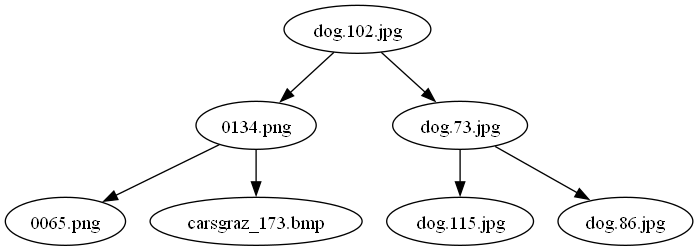
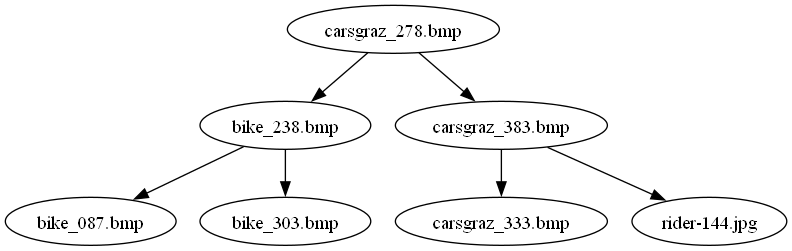
Fix AVL tree deletion bug and improve tree visualization

diff --git a/menu.py b/menu.py
@@ -18,7 +18,12 @@ class Menu(ctk.CTkTabview):
     AddDeleteFrame(self.tab('Inserción/Eliminación'), avl_tree, app)
     SearchFrame(self.tab('Buscar Nodo'), avl_tree)
     FilterFrame(self.tab('Filtrar Nodos'), avl_tree)
-    TraversalFrame(self.tab('Recorridos'), avl_tree)
+    self.traversal_frame = TraversalFrame(self.tab('Recorridos'), avl_tree, app)
+    self.draw_level_order_traversal()
+  
+  def draw_level_order_traversal(self):
+    self.traversal_frame.draw_traversal()
+  
   
 
 
@@ -40,36 +45,52 @@ class AddDeleteFrame(ctk.CTkFrame):
     dataset = load_all_images('data')
     node_name = entry.get()
     if avl_tree.search(avl_tree.root, node_name) is not None:
-      messagebox.showerror('Error', f'El nodo con nombre {node_name} ya existe en el árbol')
-      entry.delete(0, 'end')
+        messagebox.showerror('Error', f'El nodo con nombre {node_name} ya existe en el árbol')
+        entry.delete(0, 'end')
     elif is_file_in_dataset(dataset, node_name):
-      node_data, category = get_file_data_by_name(dataset, node_name)
-      avl_tree.insert(avl_tree.root, node_name, node_name, node_data)
-      entry.delete(0, 'end')
-      app.draw_avl_tree()
+        node_data, category = get_file_data_by_name(dataset, node_name)
+        avl_tree.insert(avl_tree.root, node_name, node_name, node_data)
+        entry.delete(0, 'end')
+        app.avl_tree = avl_tree
+        app.avl_tree.root = avl_tree.root
+        app.draw_avl_tree(app.avl_tree, app.avl_tree.root)  
     else:
-      messagebox.showerror('Error', f'El nodo con nombre {node_name} no existe en el dataset')
-      entry.delete(0, 'end')
+        messagebox.showerror('Error', f'El nodo con nombre {node_name} no existe en el dataset')
+        entry.delete(0, 'end')
+
 
   def delete_node(self, avl_tree, app, entry):
     node_name = entry.get()
     if avl_tree.search(avl_tree.root, node_name) is None:
-      messagebox.showerror('Error', f'El nodo con nombre {node_name} no existe en el árbol')
-      entry.delete(0, 'end')
-      return
+        messagebox.showerror('Error', f'El nodo con nombre {node_name} no existe en el árbol')
+        entry.delete(0, 'end')
+        return
     avl_tree.delete(avl_tree.root, node_name)
-
+    nodes = []
+    avl_tree.level_order_traversal(avl_tree.root, nodes)
+    print(nodes)
+    entry.delete(0, 'end')
+    app.avl_tree = avl_tree
+    app.avl_tree.root = avl_tree.root
+    app.draw_avl_tree(app.avl_tree, app.avl_tree.root)
+    return
+  
+ 
 class FilterFrame(ctk.CTkFrame):
   def __init__(self, parent, avl_tree):
     super().__init__(parent, fg_color='transparent')
     self.pack(expand=True, fill='both')
-
+    self.filtered_nodes_panel = None
     def filter_command(option, min_size, max_size):
       return lambda: self.filter_nodes(avl_tree, option, min_size, max_size)
     
     FilterPanel(self, filter_command)
   
   def filter_nodes(self, avl_tree, option, min_size, max_size):
+    if self.filtered_nodes_panel:
+      if self.filtered_nodes_panel.info_panel:
+        self.filtered_nodes_panel.info_panel.destroy()  
+      self.filtered_nodes_panel.destroy() 
     category = option.get()
     min_size = min_size.get()
     max_size = max_size.get()
@@ -89,7 +110,7 @@ class FilterFrame(ctk.CTkFrame):
     if len(node_list) == 0:
       messagebox.showinfo('Información', 'No se encontraron nodos que cumplan con los criterios de búsqueda')
     else:
-      FilteredNodes(self, node_list, avl_tree)
+      self.filtered_nodes_panel = FilteredNodes(self, node_list, avl_tree)
 
     return 
 
@@ -101,9 +122,12 @@ class SearchFrame(ctk.CTkFrame):
     def search_command(entry):
       return lambda: self.search_node(entry, avl_tree)
     
+    self.search_info_node_panel = None
     SearchPanel(self, 'Ingrese el nombre del nodo a buscar: ', search_command)
 
   def search_node(self, entry, avl_tree):
+    if self.search_info_node_panel:
+      self.search_info_node_panel.destroy()
     node_name = entry.get()
     if avl_tree.search(avl_tree.root, node_name) is not None:
       nivel = avl_tree.get_node_level(avl_tree.root, node_name)
@@ -111,19 +135,26 @@ class SearchFrame(ctk.CTkFrame):
       node_parent = avl_tree.get_node_parent(avl_tree.root, node_name)
       grandparent = avl_tree.get_node_grandparent(avl_tree.root, node_name)
       uncle = avl_tree.get_node_uncle(avl_tree.root, node_name)
-      InfoPanel(self, nivel, balance, node_parent, grandparent, uncle)
-      ClearButtonPanel(self)
+      self.search_info_node_panel= InfoPanel(self, nivel, balance, node_parent, grandparent, uncle)
     else:
       messagebox.showerror('Error', f'El nodo con nombre {node_name} no existe en el árbol')
       entry.delete(0, 'end')
     return
   
 class TraversalFrame(ctk.CTkFrame):
-  def __init__(self, parent, avl_tree):
+  def __init__(self, parent, avl_tree, app):
     super().__init__(parent, fg_color='transparent')
     self.pack(expand=True, fill='both')
+    self.avl_tree = avl_tree
+    self.app = app
+    self.traversal_panel = None
+
+  def draw_traversal(self):
     level_order_traversal_list = []
-    node_list = avl_tree.level_order_traversal(avl_tree.root, level_order_traversal_list)
-    TraversalPanel(self, node_list=level_order_traversal_list)
+    node_list = self.avl_tree.level_order_traversal(self.avl_tree.root, level_order_traversal_list)
+    if self.traversal_panel:
+        self.traversal_panel.destroy()
+    self.traversal_panel = TraversalPanel(self, node_list=level_order_traversal_list)
+
 
 

diff --git a/panels.py b/panels.py
@@ -69,15 +69,6 @@ class InfoPanel(Panel):
     ctk.CTkLabel(self, text="Tío del nodo:", font=ctk.CTkFont(family="Roboto", size=14, weight="bold")).grid(row=4, column=0, padx=4, sticky='w')
     ctk.CTkLabel(self, text=uncle, font=ctk.CTkFont(family="Roboto", size=14)).grid(row=4, column=1, padx=4, sticky='w')
 
-class ClearButtonPanel(Panel):
-  def __init__(self, parent):
-    super().__init__(parent)
-
-    #layout
-    self.rowconfigure(0, weight=1)
-    self.columnconfigure((0,1), weight=1)
-
-    ctk.CTkButton(self, text='Limpiar', font=ctk.CTkFont(family="Roboto", size=14), corner_radius=5).grid(row=0, column=1, padx=4, pady=4, sticky='ew')
 
 class FilteredNodes(Panel):
     def __init__(self, parent, node_list, avl_tree):
@@ -86,23 +77,21 @@ class FilteredNodes(Panel):
       # Layout
       self.rowconfigure((0, 1), weight=1)
       self.columnconfigure((0, 1), weight=1)
-
+      self.info_panel = None
       ctk.CTkLabel(self, text="Escoja uno de los nodos:", font=ctk.CTkFont(family="Roboto", size=14)).grid(row=0, column=0, padx=4, sticky='w')
       node = ctk.CTkOptionMenu(self, values=node_list, font=ctk.CTkFont(family="Roboto", size=14))
       node.grid(row=0, column=1, padx=4, pady=4, sticky='w')
       ctk.CTkButton(self, text='Ver información', font=ctk.CTkFont(family="Roboto", size=14), corner_radius=5, command=lambda: self.view_info(node, avl_tree)).grid(row=1, column=1, padx=4, pady=4, sticky='ew')
 
     def view_info(self, node, avl_tree):
-      for widget in self.winfo_children():
-        if isinstance(widget, InfoPanel):
-          widget.destroy()
-          break
+      if self.info_panel:
+        self.info_panel.destroy()
       parent = avl_tree.get_node_parent(avl_tree.root, node.get())
       grandparent = avl_tree.get_node_grandparent(avl_tree.root, node.get())
       uncle = avl_tree.get_node_uncle(avl_tree.root, node.get())
       nivel = avl_tree.get_node_level(avl_tree.root, node.get())
       balance = avl_tree.get_balance(avl_tree.search(avl_tree.root, node.get()))
-      InfoPanel(self.master, nivel, balance, parent, grandparent, uncle)
+      self.info_panel = InfoPanel(self.master, nivel, balance, parent, grandparent, uncle)
 
 class TraversalPanel(Panel):
   def __init__(self, parent, node_list):
@@ -110,7 +99,15 @@ class TraversalPanel(Panel):
 
     #layout
     self.rowconfigure(0, weight=1)
-    self.columnconfigure((0,1), weight=1)
+    self.columnconfigure((0,1,2,3), weight=1)
 
     ctk.CTkLabel(self, text="Recorrido por Niveles:", font=ctk.CTkFont(family="Roboto", size=14, weight="bold")).grid(row=0, column=0, padx=4, sticky='w')
-    ctk.CTkLabel(self, text=node_list, font=ctk.CTkFont(family="Roboto", size=14)).grid(row=1, column=0, padx=4, sticky='w')
+    node_sublists = [node_list[i:i+3] for i in range(0, len(node_list), 3)]
+    for row_idx, sublist in enumerate(node_sublists, start=1):
+      col_idx = 0
+      for idx, node in enumerate(sublist):
+        ctk.CTkLabel(self, text=node, font=ctk.CTkFont(family="Roboto", size=14)).grid(row=row_idx, column=col_idx, padx=4, sticky='w')
+        if idx < len(sublist) - 1: 
+          col_idx += 1
+          ctk.CTkLabel(self, text="->", font=ctk.CTkFont(family="Roboto", size=14)).grid(row=row_idx, column=col_idx, padx=4, sticky='w')
+          col_idx += 1

diff --git a/avl.py b/avl.py
@@ -42,46 +42,55 @@ class AVLTree:
       return root
 
   def delete(self, root, name):
-      if not root:
-          return root
+    if not root:
+        return root
+    
+    # Realizar la eliminación como en un ABB
+    if name < root.name:
+        root.left = self.delete(root.left, name)
+    elif name > root.name:
+        root.right = self.delete(root.right, name)
+    else:
+        # Caso de eliminación de un nodo con un solo hijo o sin hijos
+        if root.left is None:
+            temp = root.right
+            root = None
+            return temp
+        elif root.right is None:
+            temp = root.left
+            root = None
+            return temp
+          
+        # Caso de eliminación de un nodo con dos hijos
+        temp = self.min_value_node(root.right)
+        root.name = temp.name
+        root.data = temp.data
+        root.aditional_data = temp.aditional_data
+        root.right = self.delete(root.right, temp.name)
+      
+    # Actualizar la altura del nodo actual
+    root.height = 1 + max(self.get_height(root.left), self.get_height(root.right))
+    
+    # Obtener el factor de equilibrio del nodo actual
+    balance = self.get_balance(root)
 
-      if name < root.name:
-          root.left = self.delete(root.left, name)
-      elif name > root.name:
-          root.right = self.delete(root.right, name)
-      else:
-          if root.left is None:
-              temp = root.right
-              root = None
-              return temp
-          elif root.right is None:
-              temp = root.left
-              root = None
-              return temp
+    # Rebalancear el árbol si es necesario
+    # Rotaciones para balancear el árbol
+    if balance > 1 and self.get_balance(root.left) >= 0:
+        return self.right_rotate(root)
+    if balance < -1 and self.get_balance(root.right) <= 0:
+        return self.left_rotate(root)
+    if balance > 1 and self.get_balance(root.left) < 0:
+        root.left = self.left_rotate(root.left)
+        return self.right_rotate(root)
+    if balance < -1 and self.get_balance(root.right) > 0:
+        root.right = self.right_rotate(root.right)
+        return self.left_rotate(root)
 
-          temp = self.min_value_node(root.right)
-          root.name = temp.name
-          root.right = self.delete(root.right, temp.name)
+    return root
 
-      if root is None:
-          return root
 
-      root.height = 1 + max(self.get_height(root.left), self.get_height(root.right))
 
-      balance = self.get_balance(root)
-
-      if balance > 1 and self.get_balance(root.left) >= 0:
-          return self.right_rotate(root)
-      if balance < -1 and self.get_balance(root.right) <= 0:
-          return self.left_rotate(root)
-      if balance > 1 and self.get_balance(root.left) < 0:
-          root.left = self.left_rotate(root.left)
-          return self.right_rotate(root)
-      if balance < -1 and self.get_balance(root.right) > 0:
-          root.right = self.right_rotate(root.right)
-          return self.left_rotate(root)
-
-      return root
 
   def search(self, root, name):
       if not root:

diff --git a/main.py b/main.py
@@ -22,7 +22,8 @@ class App(ctk.CTk):
     self.avl_tree = self.build_initial_avl_tree()
 
     # Dibujar el árbol AVL inicial
-    self.draw_avl_tree()
+    self.image_widget = ImageWidget(self)
+    self.draw_avl_tree(self.avl_tree, self.avl_tree.root)
     self.menu = Menu(self, self.avl_tree, self)
 
     self.mainloop()
@@ -58,9 +59,8 @@ class App(ctk.CTk):
 
     return avl_tree
 
-  def draw_avl_tree(self):
-    image_path = self.avl_tree.visualize_tree(self.avl_tree.root)
-    self.image_widget = ImageWidget(self)
+  def draw_avl_tree(self,avl_tree, root):
+    image_path = avl_tree.visualize_tree(root)
     if image_path:
       self.image_widget.show_image(image_path)
 
